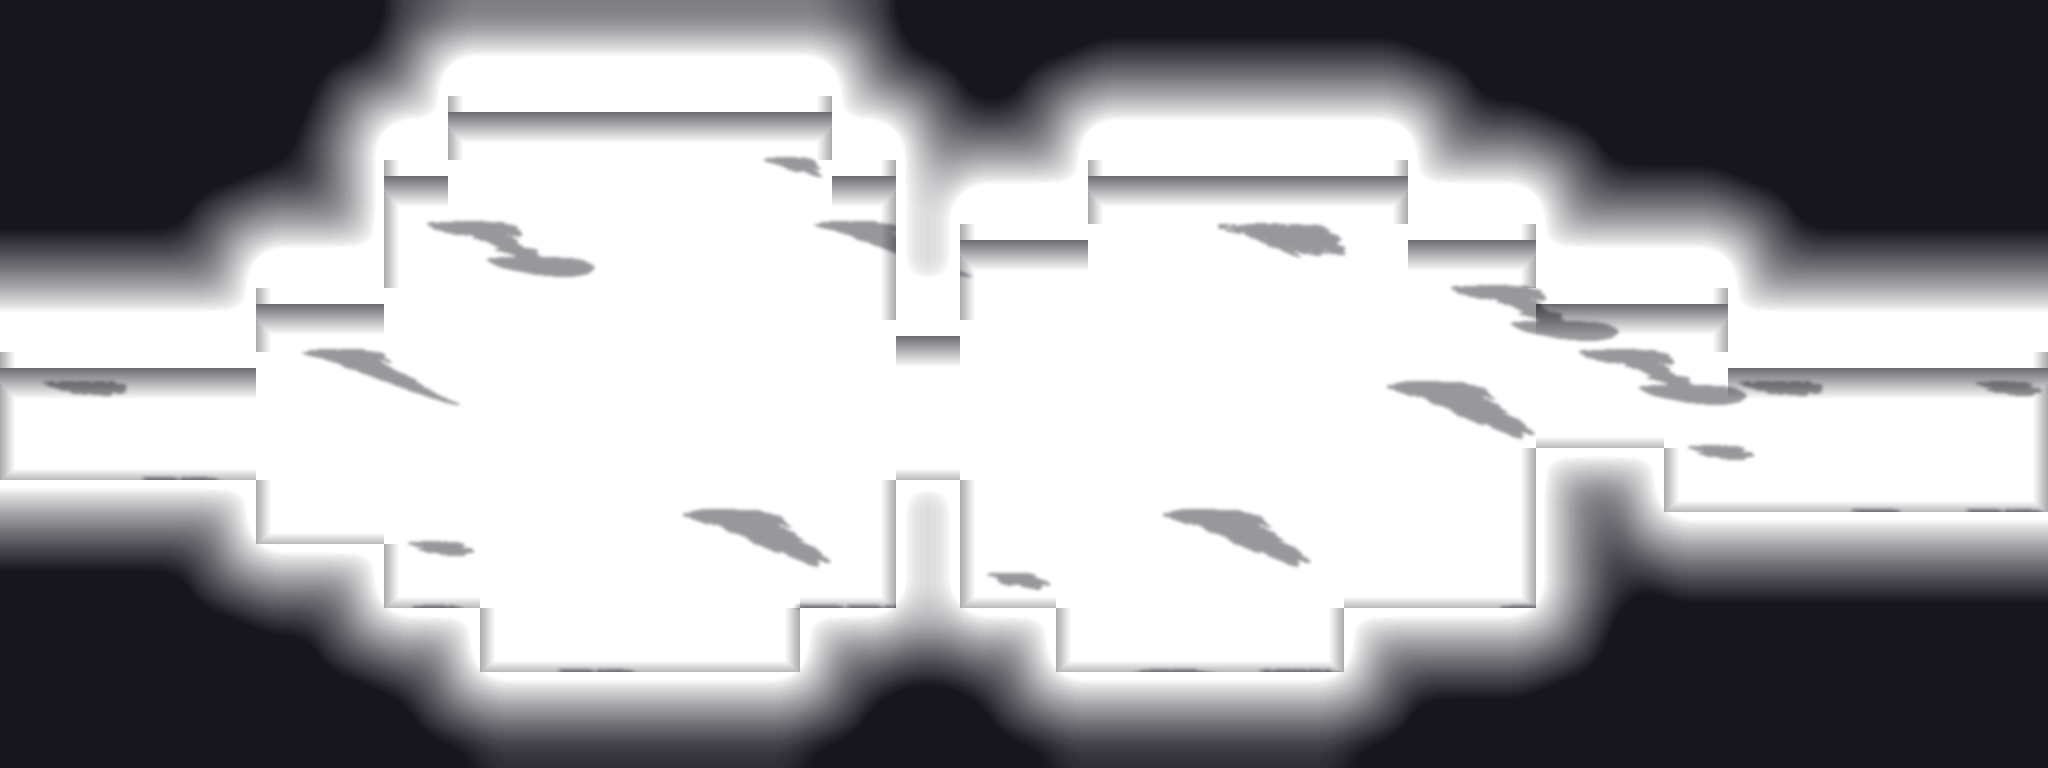
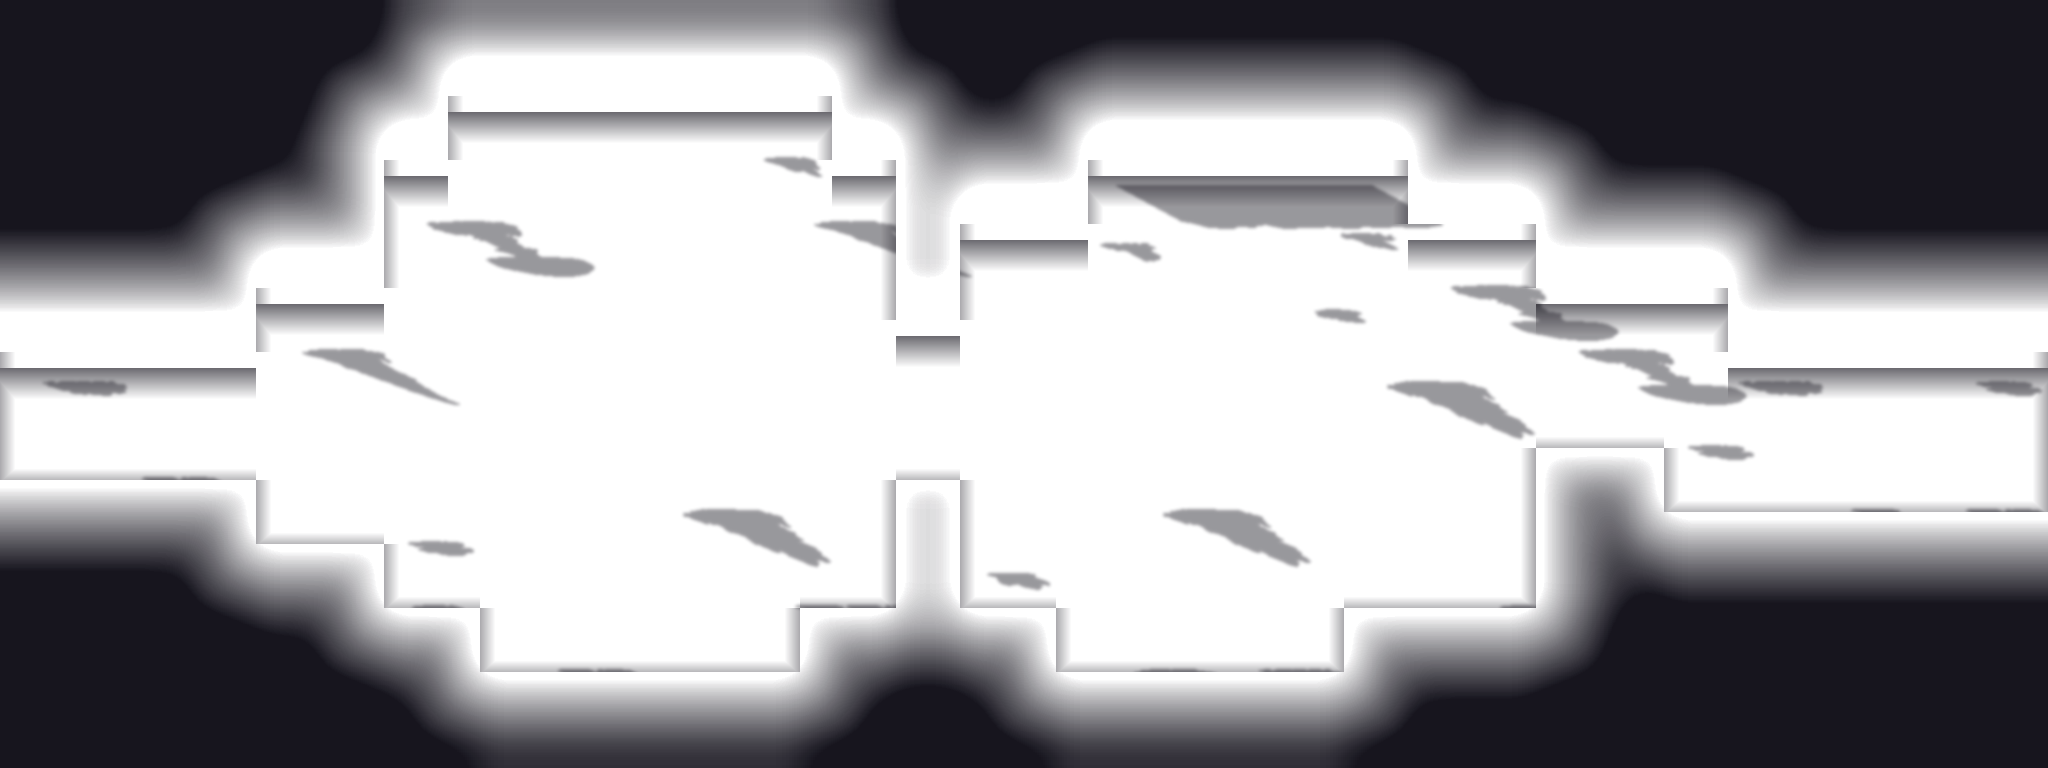
Pixel road: the Ruins become part of the cave
Sam, 2026-11-23: "This should be a lot larger and be part of the background as well with
multiple worn pillars not like a token sitting in the middle of the cave." A wide colonnade
facade against the back wall, three loose worn pillars, a forecourt paved with Sam's own
64px ruin ground tiles, and a camera vista that eases back and fades the near rock as the
party approaches.

Claude-Session: https://claude.ai/code/session_01QSk71K38AvMywZjp8GWjJx

Changed region(s): [[0.5312, 0.2188, 0.7188, 0.3438], [0.625, 0.4062, 0.6875, 0.4375], [0.5312, 0.3125, 0.5625, 0.3438]]

diff --git a/public/pixel-road/index.html b/public/pixel-road/index.html
@@ -194,13 +194,26 @@ function placeFollowers(dt, leaderMoved) {
 
 /* ---------- drawing ---------- */
 function resize() { const r = Math.min(window.devicePixelRatio || 1, 2); cv.width = Math.round(innerWidth * r); cv.height = Math.round(innerHeight * r); }
+let vista = 0;
 function camera() {
   // About eight and a half cells of height on screen, whatever the window: close, so the rock and the
   // tall things in the cave stand over the figures (Sam, 2026-11-22: "more depth").
   const m = road.tile / 2, ww = road.cols * road.tile - 2 * m, wh = road.rows * road.tile - 2 * m;
   cam.z = Math.max(cv.height / (8.5 * road.tile), cv.width / ww, cv.height / wh);
-  const vw = cv.width / cam.z, vh = cv.height / cam.z, L = heroes[0];
-  cam.x = Math.max(m, Math.min(m + ww - vw, L.x - vw / 2)); cam.y = Math.max(m, Math.min(m + wh - vh, L.y - vh / 2));
+  const L = heroes[0]; let cx = L.x, cy = L.y; vista = 0;
+  // A VISTA (Sam, 2026-11-23, on the Ruins: "a lot larger and be part of the background ... not like a token sitting
+  // in the middle of the cave"). A landmark may name a view: as the party nears it the camera eases back and up
+  // until the whole of it stands behind them, and the ceiling rock in front of the lens thins out so it is not
+  // hidden. It is a function of where the leader stands, so it eases in and out by itself as they walk.
+  for (const k of road.landmarks || []) {
+    const v = k.vista; if (!v) continue;
+    const t = Math.max(0, Math.min(1, (1 - Math.hypot(L.x - k.x, L.y - k.y) / v.reach) / 0.55)), f = t * t * (3 - 2 * t);
+    if (f <= vista) continue;
+    vista = f; cam.z = Math.max(cam.z + (cv.height / v.h - cam.z) * f, cv.width / ww, cv.height / wh);
+    cx = L.x + (v.x - L.x) * f * 0.75; cy = L.y + (v.y - L.y) * f;
+  }
+  const vw = cv.width / cam.z, vh = cv.height / cam.z;
+  cam.x = Math.max(m, Math.min(m + ww - vw, cx - vw / 2)); cam.y = Math.max(m, Math.min(m + wh - vh, cy - vh / 2));
 }
 function sign(text, x, y, near) {
   // A way out or a place of interest: a small faint name that brightens as the party nears it (Sam's pick "A"
@@ -269,8 +282,8 @@ function drawForeground() {
       else { ctx.save(); ctx.translate(x + w, y); ctx.scale(-1, 1); ctx.drawImage(im, 0, 0, w, h); ctx.restore(); }
     }
   };
-  band(fgImg.ceiling, 1.3, false);
-  band(fgImg.shelf, 1.6, true);
+  ctx.globalAlpha = 1 - 0.94 * vista; band(fgImg.ceiling, 1.3, false); ctx.globalAlpha = 1;
+  ctx.globalAlpha = 1 - 0.9 * vista; band(fgImg.shelf, 1.6, true); ctx.globalAlpha = 1;
 }
 // A STOP OPENS A PLATE (Sam, 2026-11-22: the party walks the pixel road until a stop, "then it moves into the painted
 // plates"; 2026-11-23: he sent the picture for the Ruins). When the party comes to rest beside a landmark that has a

diff --git a/scripts/pixel-road/bake.py b/scripts/pixel-road/bake.py
@@ -52,6 +52,34 @@ def main():
         assert im.size[1] == H, (c, im.size)
         ground.paste(im, (x, 0)); x += im.size[0]
     assert x == W, x
+    # PAVING (art: Sam, 2026-11-23, his 64px Underdark ruin ground tiles). A patch of his tiles laid into the floor,
+    # e.g. the forecourt of a ruin. "rows" are lists of tile names ("" leaves the cave floor; a trailing "h" mirrors
+    # the tile). The outer edge is eaten away in ragged 4px bites so the floor shows through and it reads as old
+    # paving breaking up, not a rug; "solid" names the sides that butt against something and stay straight.
+    for pv in cfg.get("paving", []):
+        rs = pv["rows"]; S = pv.get("size", 64); pw, ph = S * len(rs[0]), S * len(rs)
+        patch = Image.new("RGB", (pw, ph)); have = np.zeros((ph, pw), bool)
+        for r, row in enumerate(rs):
+            for c, n in enumerate(row):
+                if not n: continue
+                t = Image.open(p(os.path.join(pv["tiles"], n.rstrip("h") + ".png"))).convert("RGB")
+                if n.endswith("h"): t = t.transpose(Image.FLIP_LEFT_RIGHT)
+                patch.paste(t, (c * S, r * S)); have[r * S:(r + 1) * S, c * S:(c + 1) * S] = True
+        yy, xx = np.mgrid[0:ph, 0:pw]; solid = pv.get("solid", "")
+        d = np.full((ph, pw), 999.0)
+        if "l" not in solid: d = np.minimum(d, xx)
+        if "r" not in solid: d = np.minimum(d, pw - 1 - xx)
+        if "t" not in solid: d = np.minimum(d, yy)
+        if "b" not in solid: d = np.minimum(d, ph - 1 - yy)
+        rng = np.random.default_rng(pv.get("seed", 7))
+        bite = np.kron(rng.random((ph // 4 + 1, pw // 4 + 1)), np.ones((4, 4)))[:ph, :pw]
+        big = np.kron(rng.random((ph // 16 + 1, pw // 16 + 1)), np.ones((16, 16)))[:ph, :pw]
+        keep = have & (d > pv.get("ragged", 22) * (0.25 + 0.75 * big) * (0.4 + 0.6 * bite))
+        g = np.array(ground); x0, y0 = pv["x"], pv["y"]
+        sub = g[y0:y0 + ph, x0:x0 + pw]; pa = np.array(patch)
+        dark = keep & ~np.roll(keep, -1, axis=0)             # a thin dark lip under each broken edge
+        sub[keep] = pa[keep]; sub[dark] = (sub[dark] * 0.55).astype(np.uint8)
+        ground = Image.fromarray(g)
     ground.save(os.path.join(out, "ground.png"), optimize=True)
 
     grid = [l.strip() for l in open(p(cfg["grid"])) if l.strip()]

diff --git a/scripts/pixel-road/README.md b/scripts/pixel-road/README.md
@@ -58,6 +58,20 @@ Sam, 2026-11-23, sent the picture "for the ruins". A landmark in the config may 
 beside that landmark the road fades into the picture; a click or any key goes back to the road. It is look-only: no
 fight, trade or search happens inside the plate yet (that is step 2).
 
+## A landmark that is part of the cave: vista and paving
+
+Sam, 2026-11-23, on the first Ruins prop: "This should be a lot larger and be part of the background as well with
+multiple worn pillars not like a token sitting in the middle of the cave."
+
+- **Build it into the wall.** The Ruins are a 256px-wide colonnade facade standing against the back wall of its
+  chamber, with the gaps between its pillars filled with darkness so it reads as cut into the rock, and loose worn
+  pillars on the floor in front. `import_object` takes at most 256x256.
+- **`vista` on a landmark** (`{"x","y","h","reach"}`): within `reach` pixels the camera eases back to show `h` world
+  pixels of height centred on x,y, and the near rock (ceiling and shelf) fades so the landmark is not hidden.
+- **`paving` in the config** lays Sam's own 64px ground tiles (`art/tiles/ruin-ground/0..15.png`) into the floor as a
+  forecourt. `rows` name the tiles ("" = leave the cave floor, trailing "h" = mirrored); the edge is eaten away so
+  it reads as broken paving, not a rug.
+
 ## Baking `road-01` (PixelLab map `1c47eece-3986-4b2c-9501-3ad0b47fe44e`, "Road 01 - Tunnel out of Velkynvelve (cavern)")
 
 `python3 scripts/pixel-road/bake.py road-01 <config.json>`, with a config like `road-01.config.json` here (its
